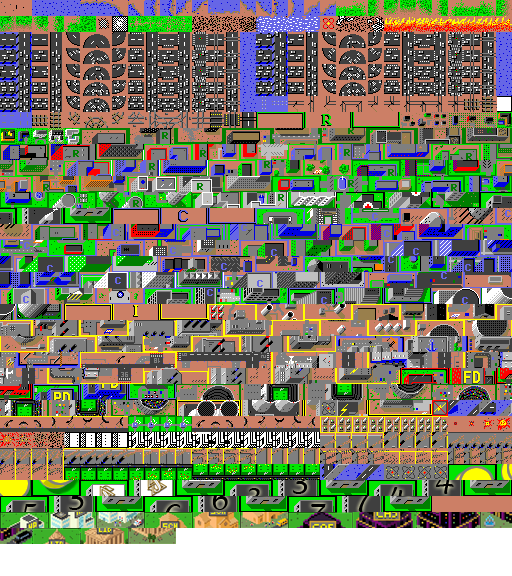
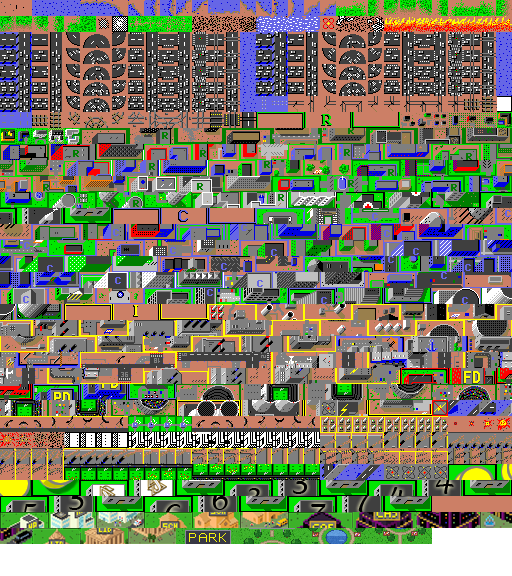
Add a Large Park, and derive 4x4 placement from the registry
A 4x4, $2000 counterpart to the 1x1 park tool. That tool scatters woods
and the occasional fountain and does nothing for land value; this is the
deliberate, expensive version of the same idea, and it uses the coverage
mechanism rather than the demand one -- a park earns its keep by making
the blocks around it nicer to live in, which is what civicBuildingMap
already models for the Hospital and Library. Its 350 sits between the
Library's 300 and the Hospital's 400: more than a reading room, less than
an emergency department, at four times the footprint of either.

Adding it turned up the one part of customBuildings.js's "just add an
entry" promise that wasn't true. Every 4x4 building also needed four
`case` lines hand-written into zoneUtils.js's checkBigZone, mapping the
tiles a map scan can meet the building at back to its centre -- the file
said so in its own comment. Those offsets are a pure function of the
building's size, which the registry already knows, so they're derived
into a lookup now and checkBigZone consults it before its switch. The
engine's own 4x4 zones stay hand-listed, because their tile IDs are named
TileValues constants rather than computed ones. Adding a building is back
to one registry entry plus, for a coverage building, its censusStat.

Verified all four bulldoze entry points clear the whole zone for the new
park and for the Casino, whose hand-written cases this replaces, plus
Coal as a check that the untouched engine path still behaves.
[…]

Changed region(s): [[0.3438, 0.9062, 0.8438, 0.9688]]

diff --git a/src/zoneUtils.js b/src/zoneUtils.js
@@ -16,11 +16,34 @@ import { BULLBIT, POWERBIT } from "./tileFlags.ts";
 import { CUSTOM_BUILDINGS } from "./customBuildings.js";
 import * as TileValues from "./tileValues.ts";
 
-// Casino's centre tile isn't a named TileValues constant -- its ID is computed by
-// customBuildings.js, see that file for why.
-var CASINO_CENTRE = CUSTOM_BUILDINGS.filter(function(b) { return b.id === 'casino'; })[0].centreTile;
+// b0r3d-city's own 4x4 buildings (see customBuildings.js), keyed by every tile value
+// a map scan can meet one at. The engine's own 4x4 zones are hand-listed as `case`
+// lines below because their tile IDs are named TileValues constants; these are
+// computed from the registry, so they can be derived instead -- which is what stops
+// each new 4x4 building needing four more `case` lines added here by hand, the one
+// part of adding a building that used not to be generic.
+//
+// The four offsets are the same set the engine lists for each of its own 4x4 zones:
+// the centre tile, and the tiles one to its right, one below, and one below-right,
+// each carrying the delta back to the centre. Callers only ever read these (see
+// bulldozerTool.js, the sole one), so sharing the objects is safe.
+var CUSTOM_BIG_ZONES = {};
+CUSTOM_BUILDINGS.forEach(function(building) {
+  if (building.size !== 4)
+    return;
+
+  var centre = building.centreTile;
+  CUSTOM_BIG_ZONES[centre]     = {zoneSize: 4, deltaX:  0, deltaY:  0};
+  CUSTOM_BIG_ZONES[centre + 1] = {zoneSize: 4, deltaX: -1, deltaY:  0};
+  CUSTOM_BIG_ZONES[centre + 4] = {zoneSize: 4, deltaX:  0, deltaY: -1};
+  CUSTOM_BIG_ZONES[centre + 5] = {zoneSize: 4, deltaX: -1, deltaY: -1};
+});
 
 var checkBigZone = function(tileValue) {
+  var custom = CUSTOM_BIG_ZONES[tileValue];
+  if (custom !== undefined)
+    return custom;
+
   var result;
 
   switch (tileValue) {
@@ -29,7 +52,6 @@ var checkBigZone = function(tileValue) {
     case TileValues.PORT:
     case TileValues.NUCLEAR:
     case TileValues.STADIUM:
-    case CASINO_CENTRE:
       result = {zoneSize: 4, deltaX: 0, deltaY: 0};
       break;
 
@@ -40,7 +62,6 @@ var checkBigZone = function(tileValue) {
     case TileValues.PORT + 1:
     case TileValues.NUCLEAR + 1:
     case TileValues.STADIUM + 1:
-    case CASINO_CENTRE + 1:
       result = {zoneSize: 4, deltaX: -1, deltaY: 0};
       break;
 
@@ -48,7 +69,6 @@ var checkBigZone = function(tileValue) {
     case TileValues.PORT + 4:
     case TileValues.NUCLEAR + 4:
     case TileValues.STADIUM + 4:
-    case CASINO_CENTRE + 4:
       result = {zoneSize: 4, deltaX: 0, deltaY: -1};
       break;
 
@@ -56,7 +76,6 @@ var checkBigZone = function(tileValue) {
     case TileValues.PORT + 5:
     case TileValues.NUCLEAR + 5:
     case TileValues.STADIUM + 5:
-    case CASINO_CENTRE + 5:
       result = {zoneSize: 4, deltaX: -1, deltaY: -1};
       break;
 

diff --git a/src/customBuildings.js b/src/customBuildings.js
@@ -14,11 +14,12 @@
 // Single source of truth for b0r3d-city's own custom placeable buildings (as opposed to
 // the original engine's zones/buildings, which stay named individually in
 // tileValues.ts). Adding a new building is: draw its art at the next free tile offset
-// in images/tiles.png/images/tilessnow.png, then add one entry to RAW_BUILDINGS below --
-// gameTools.js, civicBuildings.js, zoneUtils.js and the toolbar all consume this list
-// generically, no per-building code required for the common case. A 4x4 building also
-// needs one switch case added to zoneUtils.js's checkBigZone, following the casino
-// case there as the template -- that one part of 4x4 placement math isn't generated.
+// in images/tiles.png/images/tilessnow.png, then add one entry to RAW_BUILDINGS below
+// -- gameTools.js, civicBuildings.js, zoneUtils.js and the toolbar all consume this
+// list generically, so no per-building code is needed. A coverage-effect building
+// also needs its censusStat declaring in census.js's accumulator, which is the only
+// hand-edit left: 4x4 placement maths used to want four switch cases per building in
+// zoneUtils.js's checkBigZone, and is now derived from the size field here.
 
 // First tile ID past the original engine's own tile range (0-1023) -- see tileFlags.ts's
 // BIT_START for why 1024 was once a hard ceiling here, and why it no longer is.
@@ -44,6 +45,18 @@ var RAW_BUILDINGS = [
     id: 'library', label: 'Library', cost: 1000, size: 3, animated: false,
     colour: 'tan', textColour: null,
     effect: { type: 'coverage', censusStat: 'libraryPop', landValueEffect: 300 },
+  },
+  // The 1x1 park tool (parkTool.js) scatters woods and the odd fountain and does
+  // nothing for land value; this is the deliberate, expensive version of the same
+  // idea. Coverage rather than demand: a park earns its keep by making the blocks
+  // around it nicer to live in, which is exactly what the civicBuildingMap models.
+  // 350 sits between the Library (300) and the Hospital (400) -- more than a
+  // reading room, less than an emergency department, and it costs 4x the footprint
+  // of either.
+  {
+    id: 'largePark', label: 'Large Park', cost: 2000, size: 4, animated: false,
+    colour: 'forestgreen', textColour: 'white',
+    effect: { type: 'coverage', censusStat: 'largeParkPop', landValueEffect: 350 },
   },
   // Future buildings just get appended here -- tile IDs below are computed
   // automatically from size + position in this list, never hand-picked.

diff --git a/src/census.js b/src/census.js
@@ -80,6 +80,7 @@ Census.prototype.clearCensus = function() {
   this.libraryPop = 0;
   this.schoolPop = 0;
   this.casinoPop = 0;
+  this.largeParkPop = 0;
   this.stadiumPop = 0;
   this.coalPowerPop = 0;
   this.nuclearPowerPop = 0;
